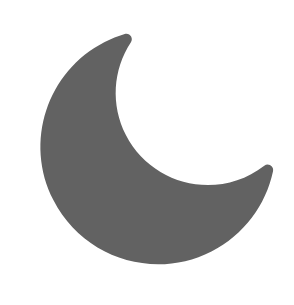
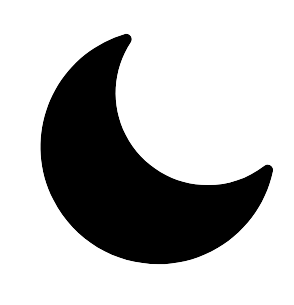
Dark to Light theme

Changed region(s): [[0.1224, 0.118, 0.949, 0.8852]]

diff --git a/JS/script.js b/JS/script.js
@@ -6,7 +6,8 @@ if (document.readyState == "loading") {
 }
 
 function ready() {
-    
+
+    // ------------------------------------------------------------------------------------
     const titles = Array.from(document.getElementsByClassName("tab-title"));
     const tabs = Array.from(document.getElementsByClassName("tab-content"));
 
@@ -21,5 +22,38 @@ function ready() {
             document.getElementById(this.id + "-tab").classList.add("active-content");
         });
     });
+    // ------------------------------------------------------------------------------------
+    
+    // ------------------------------------------------------------------------------------
+    const lightButton = document.getElementById("light");
+    const darkButton = document.getElementById("dark");
+
+    lightButton.addEventListener('click', function() {
+        this.style.display = 'none';
+        darkButton.style.display = 'block';
+
+        document.documentElement.style.setProperty('--primary-color', '#F9F9F9');
+        document.documentElement.style.setProperty('--secondary-color', '#2AD882');
+        document.documentElement.style.setProperty('--primary-text-color', '#191D23');
+        document.documentElement.style.setProperty('--subtext-color', '#38414E');
+        document.documentElement.style.setProperty('--special-subtext-color', '#1D8F56');
+
+        document.documentElement.style.setProperty('--astro-brightness-level', '20%');
+    })
+
+    darkButton.addEventListener('click', function() {
+        this.style.display = 'none';
+        lightButton.style.display = 'block';
+
+        document.documentElement.style.setProperty('--primary-color', '#191D23');
+        document.documentElement.style.setProperty('--secondary-color', '#2AD882');
+        document.documentElement.style.setProperty('--primary-text-color', '#FFFFFF');
+        document.documentElement.style.setProperty('--subtext-color', '#D7D7D7');
+        document.documentElement.style.setProperty('--special-subtext-color', '#24ad68');
+
+        document.documentElement.style.setProperty('--astro-brightness-level', '100%');
+
+    })
+    // ------------------------------------------------------------------------------------
 
 }

diff --git a/CSS/main.css b/CSS/main.css
@@ -1,9 +1,11 @@
 :root {
-    --primary-color: #191d23;
+    --primary-color: #191D23;
     --secondary-color: #2AD882;
     --primary-text-color: #FFFFFF;
-    --subtext-color: #d7d7d7;
-    --special-subtext-color: #22A664;
+    --subtext-color: #D7D7D7;
+    --special-subtext-color: #24ad68;
+
+    --astro-brightness-level: 100%;
 }
 
 * {
@@ -39,6 +41,7 @@ nav {
             margin: 0 15px;
             padding: 0 10px;
             font-size: 16px;
+            font-weight: bold;
             text-decoration: none;
             text-transform: capitalize;
             letter-spacing: 1px;
@@ -47,14 +50,14 @@ nav {
         }
 
         li a:hover {
-            color: var(--secondary-color);
+            color: var(--special-subtext-color);
         }
 
         li a::after {
             content: "";
             width: 0;
             height: 2px;
-            background-color: var(--secondary-color);
+            background-color: var(--special-subtext-color);
             left: 0;
             bottom: -10px;
             transition: width 0.3s ease;
@@ -120,7 +123,7 @@ nav {
                 font-size: 23px;
                 font-weight: 600;
                 text-transform: capitalize;
-                color: var(--secondary-color);
+                color: var(--special-subtext-color);
             }
 
             h2 {
@@ -160,7 +163,7 @@ nav {
                 .arrow {
                     display: flex;
                     align-items: center;
-                    background-color: #2AD882;
+                    background-color: var(--secondary-color);
 
                     img {
                         width: 30px;
@@ -209,12 +212,16 @@ nav {
         }
     }
 
-    .astro {
+    #astro {
         position: fixed;
         top: 8vh;
         right: 10vw;
         width: 600px;
-        filter: drop-shadow(5px 5px 10px var(--secondary-color));
+        fill: black;
+        filter: 
+        brightness(var(--astro-brightness-level))
+        drop-shadow(5px 5px 10px var(--secondary-color))
+        ;
         z-index: -1;
     }
 }

diff --git a/index.html b/index.html
@@ -59,7 +59,7 @@
         <div class="colored-background">
             <div class="fixed-hexagon">
             </div>
-            <img class="astro" src="Images/astro.svg" alt="">
+            <img class="astro" src="Images/astro.svg" alt="Main image" id="astro">
         </div>
     </section>
     <!-- ------------------------------------------------------------------------------ -->

diff --git a/CSS/about.css b/CSS/about.css
@@ -123,7 +123,7 @@
                     margin: 0 0 2% 0;
                     font-size: 17px;
                     text-transform: capitalize;
-                    color: var(--secondary-color);
+                    color: var(--special-subtext-color);
 
                     /* -------------------------------- */
                     .inner-list {
